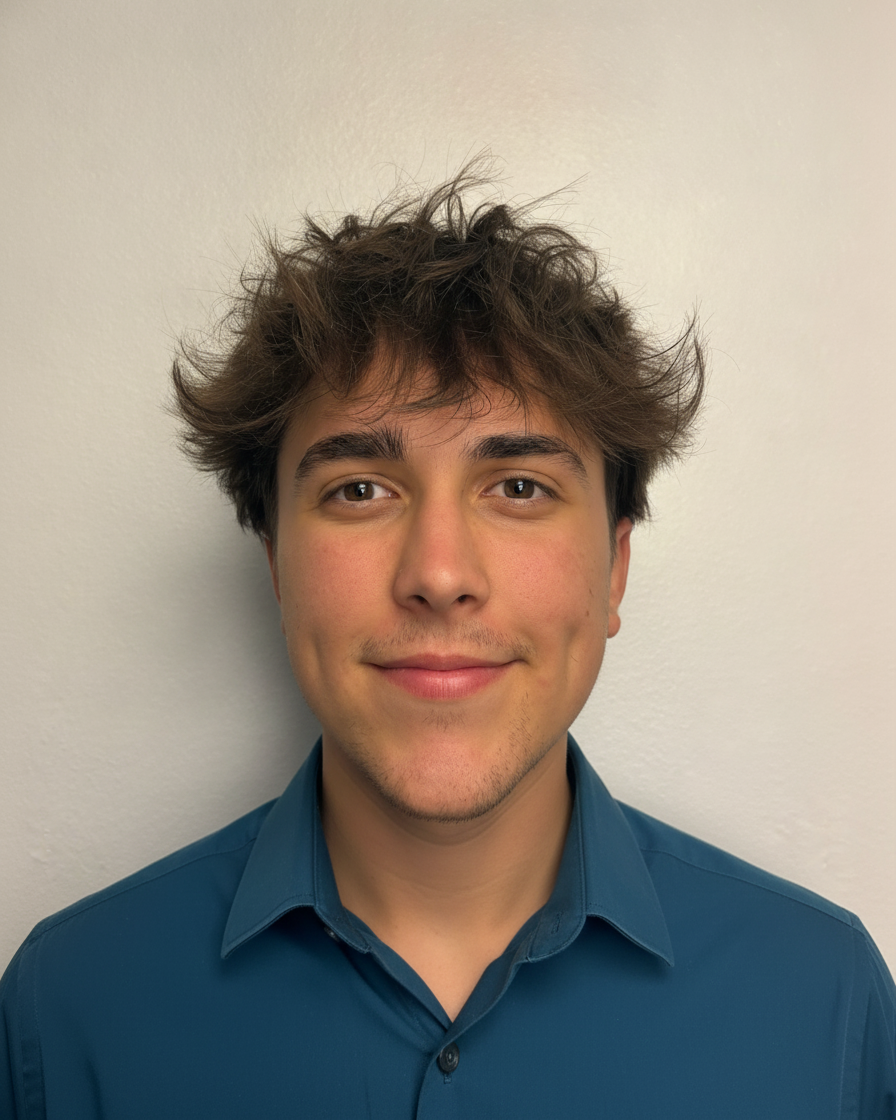
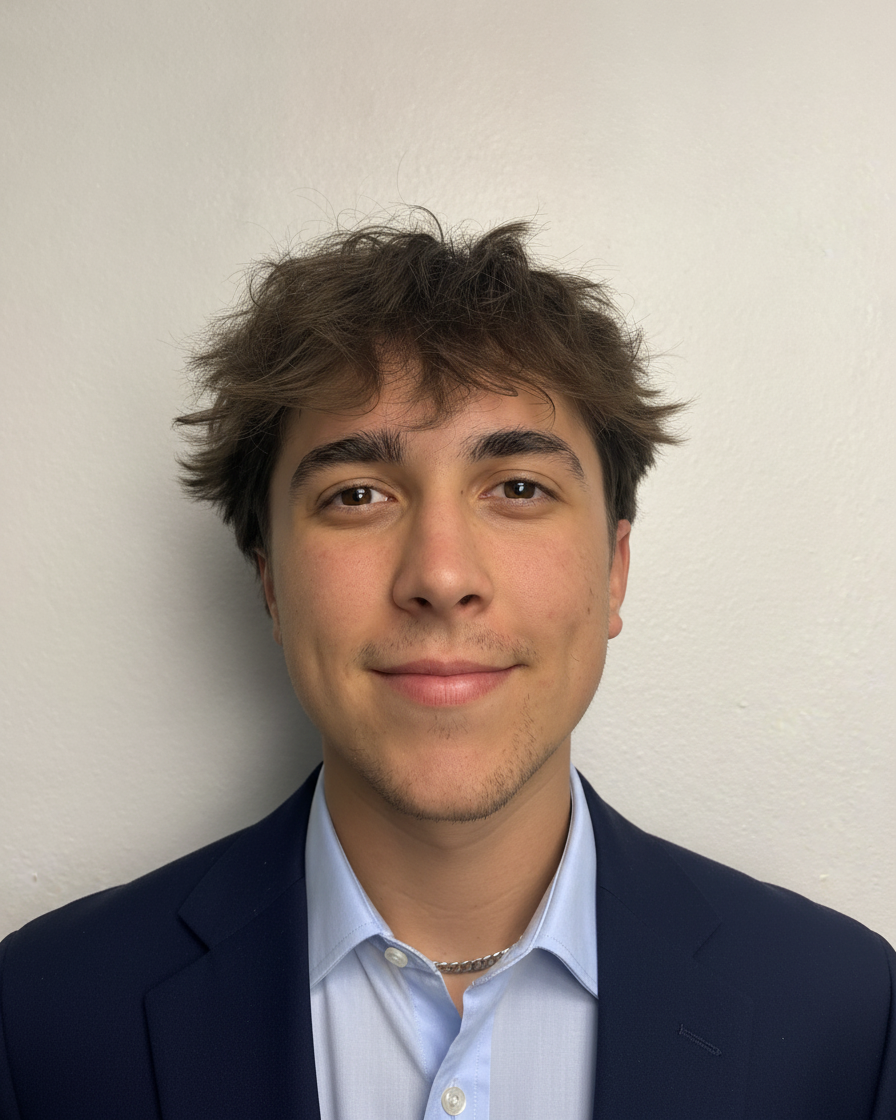
deploy client portfolio ryanwcampbell

diff --git a/clients/ryanwcampbell/index.html b/clients/ryanwcampbell/index.html
@@ -41,7 +41,7 @@
 <footer class="footer">
   <div class="wrap foot-inner">
     <span class="foot-name">Ryan Campbell</span>
-    <span class="foot-links"><a href="mailto:ryanwcampbell333@gmail.con">ryanwcampbell333@gmail.con</a> <a href="resume.pdf" target="_blank" rel="noopener">Résumé</a> <a href="https://github.com/ryancamp10" target="_blank" rel="noopener">GitHub</a><a href="https://www.linkedin.com/in/ryan-campbell-a02652313" target="_blank" rel="noopener">LinkedIn</a></span>
+    <span class="foot-links"><a href="mailto:ryanwcampbell333@gmail.com">ryanwcampbell333@gmail.com</a> <a href="resume.pdf" target="_blank" rel="noopener">Résumé</a> <a href="https://github.com/ryancamp10" target="_blank" rel="noopener">GitHub</a><a href="https://www.linkedin.com/in/ryan-campbell-a02652313" target="_blank" rel="noopener">LinkedIn</a></span>
     <span class="foot-note">&copy; <span id="yr"></span> Ryan Campbell</span>
   </div>
 </footer>
